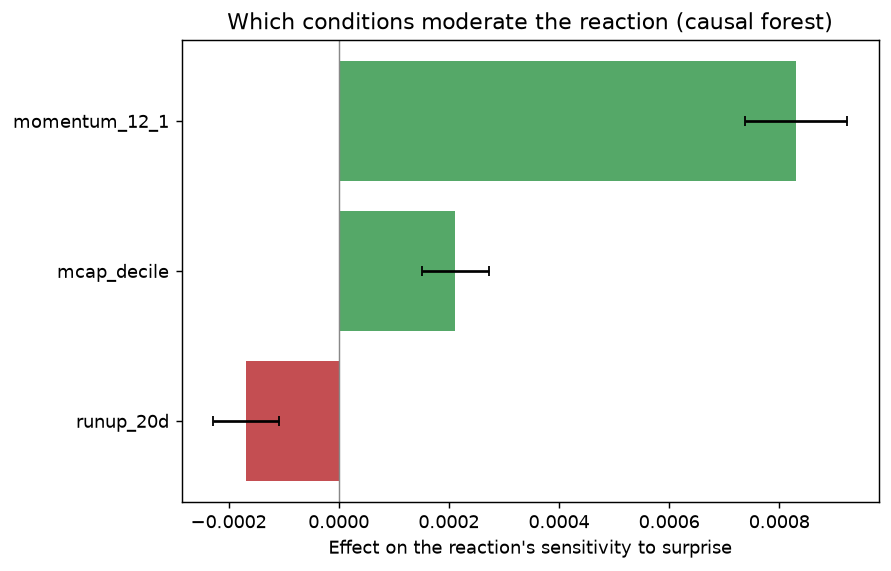
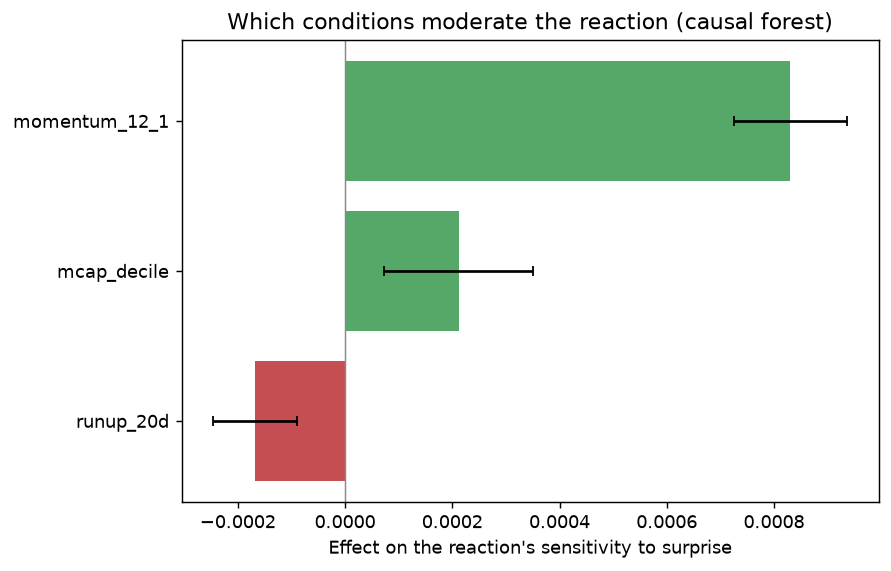
Update results: ML-vs-baseline comparison, cluster-robust moderators, corrected prediction narrative

diff --git a/README.md b/README.md
@@ -1,188 +1,166 @@
-# Earnings Reaction Lab
+# Market Intelligence Bot
 
-**Why do identical earnings beats produce opposite price reactions?** When Meta beats EPS
-estimates by ~5% the stock can fall 7%, while Shopify beats by a similar margin the same
-season and rises 5%. The size of the surprise clearly is not the whole story. This project
-measures *which conditions* change how the market reacts to an earnings surprise, using
-~10 years of S&P 500 earnings events, and treats the question as two distinct problems:
+A self-hosted Telegram bot that delivers a scheduled cross-asset **market digest** and **instant, analysed alerts** for the tickers you track. It runs as a single-tenant, owner-locked instance: you supply the keys, and it serves you (plus an optional allowlist) only.
 
-- **Inference** — *what causes* the difference in reactions (the honest-standard-errors track).
-- **Prediction** — *can we forecast* the reaction out of sample (the honest-OOS track).
+> Everything it produces is information and analysis, **not personalised investment advice.**
 
-The repository is built so that each method appears only where its assumptions earn their
-keep, and the inference/prediction distinction is kept explicit throughout. The methodology
-is the deliverable as much as any single number.
+## Demo
 
-> **Status:** analytical pipeline implemented and unit-tested (51 tests, simulation
-> ground-truths for every estimator) and run end-to-end on live data. The **Results**
-> section below reports a pilot run on a curated 84-name S&P 500 subset over ~5 years
-> (~1,845 earnings events, current-membership snapshot — see caveats).
+Per-ticker news alerts, each carrying an LLM analysis bar — **sentiment**, **impact**, **why it matters**, and **what to watch**. The same pipeline handles the full sentiment range:
 
-## Results (pilot run)
+| 🟢 Bullish | ⚪ Neutral | 🔴 Bearish |
+|---|---|---|
+| ![Bullish alert](docs/alert_bullish.png) | ![Neutral alert](docs/alert_neutral.png) | ![Bearish alert](docs/alert_bearish.png) |
 
-Pilot scope: 84 diversified S&P 500 names, ~5 years, **1,845 earnings events**. Reactions
-are market-adjusted cumulative abnormal returns over the announcement window (days 0–1).
-This is a current-membership snapshot, so survivorship bias applies (see *Data*); treat it
-as a strong pilot, not the final study.
+*Real output for tracked tickers. Each article is fetched, deduplicated per user, classified, and pushed once with a structured read — not just a headline.*
 
-### The puzzle, visualized
+## What it does
 
-Surprise size alone does not determine the reaction — the cloud is wide and roughly
-centered, exactly the dispersion the project sets out to explain.
+- **4-hour digest** (configurable times): one brief covering US/UK/global indices, major FX, BTC/ETH, WTI & gold, US 10Y, VIX and DXY — with moves vs prior close and vs the last digest, outlier flags, upcoming earnings for your tracked names, and an LLM synthesis (what changed, why it matters, what to watch). Computed once and broadcast.
+- **Whitelist news alerts**: polls news for the union of tracked tickers, and for each fresh article pushes a tight analysis (summary, sentiment, impact direction/magnitude, materiality, why-it-matters, what-to-watch) to every user holding that ticker — once each, with strict per-user dedup.
+- **Price alerts**: `>`/`<` level crossings and daily `%` moves, one-shot or repeating.
 
-![Reaction vs surprise](reports/02_surprise_vs_reaction.png)
+## How it works
 
-### Reaction scales with surprise, but mainly at the tails
+- **Compute-once → broadcast** for the digest; **poll-union → fan-out** for alerts.
+- **Owner-lock:** every handler is gated; non-authorised users never reach the data providers or the LLM, so strangers can't run up your API bill.
+- **Data:** Yahoo Finance via `yfinance` for all prices and news (no key). Anthropic (Claude) is the only paid dependency. An optional Finnhub key adds a US-news fallback.
+- **Storage:** SQLite, keyed by Telegram user ID, structured so a move to PostgreSQL is a connection change rather than a rewrite.
 
-Sorting events into surprise (SUE) quintiles, the largest-beat quintile is significantly
-positive (~+0.95%, CI clear of zero) and the largest-miss quintile is negative; the middle
-is noisy. The relationship is real but concentrated in the extremes.
+## Requirements
 
-![Reaction by surprise quintile](reports/01_car_by_sue_quintile.png)
+- Python 3.10+
+- A Telegram bot token
+- An Anthropic API key
+- (Optional) a Finnhub API key for a news fallback
 
-### Post-earnings drift is strongly asymmetric
+## Quick start
 
-Beats settle around +0.5% and hold it; misses fall to roughly −2.5% and only partially
-recover, sitting near −1.5% three weeks later. **Misses are punished several times harder
-than beats are rewarded, and the drift persists** — a clean post-earnings-announcement-drift
-result.
-
-![Drift around earnings](reports/04_drift_beats_vs_misses.png)
-
-### Which conditions move the reaction (the core finding)
-
-A causal forest (CausalForestDML, cluster-aware cross-fitting) estimates how the reaction's
-*sensitivity to surprise* varies with prior conditions. Three moderators are significant:
-
-- **Pre-earnings run-up (20-day) — negative.** Stocks that already rallied into the print
-  react *less* favorably to the same beat: the move was priced in. This is the statistical
-  articulation of *why a company can beat and still fall* (the "Meta" case).
-- **12-month momentum — positive (largest).** Longer-horizon winners react more strongly.
-- **Market-cap decile — positive.** Larger caps reprice more per unit of surprise.
-
-Short-term run-up dampens the reaction while long-term momentum amplifies it — two horizons
-pulling in opposite directions.
-
-![Causal-forest moderators](reports/07_forest_moderators.png)
-
-### You can explain the reaction, but not predict its magnitude
-
-A gradient-boosted model under purged, embargoed walk-forward CV shows essentially no
-out-of-sample skill at predicting reaction *magnitude*: predictions collapse toward zero
-while actuals span ±15%, and SHAP attributes nearly all signal to the surprise itself.
-
-![Out-of-sample predicted vs actual](reports/05_oos_predicted_vs_actual.png)
-
-This is an honest null, and the central methodological point: the cross-sectional reaction
-is **explainable in its structure (inference) but not point-predictable (prediction)** —
-consistent with market efficiency, and a more credible result than an overfit "winning"
-model.
-
-### Caveats
-
-Curated 84-name universe over ~5 years on a current-membership snapshot (survivorship bias
-present), annual-only fundamentals on the data tier used (so the valuation moderator is
-under-powered), and no transcript-text features yet. Effect magnitudes are modest and
-should be read as directional pilot evidence; the full point-in-time, deeper-history run is
-the natural next step.
-
-## The approach in one picture
-
-| Question | Method | Notebook | Why this tool |
-|---|---|---|---|
-| Is the data right; what's the average reaction? | Event study + cluster-robust OLS | 01 | Establishes the stylized fact and catches upstream bugs before trusting any estimator. |
-| Effect of surprise size with many controls? | Post-double-selection lasso (BCH) | 02 | Valid inference on a focal coefficient under high-dimensional controls; plug-in penalty, two-way clustered SEs. |
-| Which conditions *moderate* the reaction (pre-specified)? | Interacted double lasso + Benjamini-Hochberg | 02 | Interpretable, communicable moderators with multiplicity control. |
-| Which moderators, *without* pre-specifying? | Causal forest (CausalForestDML) + calibration | 03 | Nonparametric heterogeneity discovery, validated by a sort/calibration test so we don't report noise. |
-| Can we predict the reaction OOS? | LightGBM + SHAP, purged/embargoed CV | 04 | Trees regularize internally; honest out-of-time evaluation; rank IC is the finance-native metric. |
-| Does deep learning or text help? | FT-Transformer benchmark + FinBERT embeddings | 05 | Fair tabular benchmark on the same CV; transcripts capture guidance/tone that tabular features cannot. |
-
-## Why these methods, in plain terms
-
-- **Double lasso, not kitchen-sink OLS.** With dozens of correlated controls, ordinary
-  regression overfits and stepwise selection invalidates the p-values. Double selection
-  (Belloni-Chernozhukov-Hansen) chooses controls from both the outcome and the
-  treatment equations, keeping inference on the surprise coefficient valid. The penalty is
-  the theory-driven **plug-in** value, not cross-validated lambda, which would over-select.
-- **Two-way clustered standard errors (firm x quarter).** Earnings events are not
-  independent: a firm's quarters are correlated, and all firms reporting the same week
-  share macro shocks. SEs are clustered in both dimensions (Cameron-Gelbach-Miller),
-  with the covariance projected to the nearest valid (PSD) matrix.
-- **Causal forest *is* double ML.** It residualizes outcome and treatment with ML nuisance
-  models before splitting, so cross-fitting must respect clustering — we use GroupKFold by
-  ticker. We never trust the forest until it passes a **calibration sort test**: bucket events
-  by predicted effect, re-estimate the realized effect per bucket, and check the two agree.
-  With ~20k events a forest will manufacture noise heterogeneity otherwise.
-- **Purged, embargoed walk-forward CV.** The drift label spans roughly a month, so a naive
-  k-fold lets training data overlap the test label horizon — a silent leak. Training events
-  within the purge window before each test block are dropped, and an embargo follows it.
-- **Standardized surprise (SUE), not raw %.** Raw surprise-percent explodes for near-zero
-  EPS denominators; SUE scales by each firm's own past surprise volatility (using only
-  prior quarters), which is both better-behaved and the literature standard.
-
-## Repository layout
-
-```
-src/erl/
-  config.py            typed settings (ERL_ env prefix), data dirs, benchmarks
-  fmp.py               rate-limit-aware, cached, resumable FMP client
-  universe.py          point-in-time S&P 500 membership (survivorship handled)
-  harvest/             surprises, prices, fundamentals, transcripts
-  events/              returns/CARs, feature engineering, panel + leakage guards
-  inference/           event study, double lasso, causal forest
-  predict/             purged CV, LightGBM+SHAP, FT-Transformer
-  text/                transcript embedding + leakage-safe PCA features
-  pipeline.py          end-to-end orchestrator (harvest -> panel -> inference -> predict)
-notebooks/             01..06, jupytext percent-format (open in Jupyter or VS Code)
-tests/                 47 tests; estimators verified against simulated ground truth
-```
-
-## Data
-
-Primary source: **Financial Modeling Prep (FMP)**, with `yfinance` as a free price
-cross-check. The pipeline adapts the universe to your plan: it first attempts
-**point-in-time** S&P 500 membership via FMP's historical-constituents endpoint (the
-proper survivorship fix, including names that later left the index); if that endpoint
-is not in your plan, it falls back to the **current** constituents, and failing that to
-a curated diversified subset. The current-membership and subset paths carry
-**survivorship bias** (they only include today's members), which is logged at run time
-and should be stated in any write-up based on them. Point-in-time membership requires a
-plan that includes historical constituents (e.g. Premium).
-
-The project is designed around a **phased data budget**:
-
-1. **FMP Starter/Premium** covers earnings surprises, historical constituents, deep prices,
-   and analyst estimates — everything for notebooks 01-04.
-2. **One month of FMP Ultimate** to bulk-harvest ~10 years of earnings-call transcripts for
-   notebook 05; they cache locally as parquet, after which you can downgrade. The RTX 4090
-   then embeds from the local cache indefinitely.
-
-Russell 1000 is a deferred stretch goal: FMP does not provide Russell membership, so it
-needs a separate point-in-time source before inclusion.
-
-## Reproducing the results
-
-```
+```bash
+git clone <your-fork-url> market-intel-bot
+cd market-intel-bot
 python -m venv .venv && source .venv/bin/activate
 pip install -r requirements.txt
-cp .env.example .env          # then add your ERL_FMP_API_KEY
-python -m erl.pipeline all --universe pilot     # 30-ticker pilot, fast
-python -m erl.pipeline all --universe sp500     # full point-in-time universe
+cp .env.example .env
+# edit .env: TELEGRAM_BOT_TOKEN, OWNER_TELEGRAM_ID, ANTHROPIC_API_KEY
+python -m app.main
 ```
 
-GPU track (run on a CUDA machine): `pip install -r requirements-gpu.txt`, then
-`notebooks/05_dl_and_text`.
+Then message your bot `/start`.
 
-## Honest expectations
+## Getting the keys and IDs
 
-This is a study of a noisy phenomenon. The realistic out-of-sample R-squared on individual
-reactions is low single digits, with a rank IC around 0.05-0.10 — and that is a finding,
-not a failure. Much of the Meta-vs-Shopify divergence is idiosyncratic (specific guidance
-wording, one weak segment) that tabular features cannot capture, which is exactly why the
-transcript-embedding track exists. The contribution is a rigorous map of *which observable
-conditions* systematically move the reaction, with inference that survives clustering and
-multiple-testing scrutiny.
+- **Telegram bot token:** open [@BotFather](https://t.me/BotFather), `/newbot`, copy the token. To accept Star donations, also run `/mybots → your bot → Payments` once.
+- **Your Telegram user ID:** message [@userinfobot](https://t.me/userinfobot); it replies with your numeric ID. Put it in `OWNER_TELEGRAM_ID`.
+- **Anthropic API key:** create one at <https://console.anthropic.com>.
+- **Finnhub (optional):** free key at <https://finnhub.io>.
+
+## Configuration
+
+| Variable | Required | Default | Notes |
+|---|---|---|---|
+| `TELEGRAM_BOT_TOKEN` | yes | — | From BotFather |
+| `OWNER_TELEGRAM_ID` | yes | — | The only user served by default |
+| `ANTHROPIC_API_KEY` | yes | — | The only guaranteed cost |
+| `ALLOWED_USER_IDS` | no | empty | Comma-separated extra IDs allowed on this instance |
+| `DIGEST_MODEL` | no | `claude-sonnet-4-6` | Digest synthesis |
+| `CLASSIFY_MODEL` | no | `claude-haiku-4-5-20251001` | Per-article classification |
+| `TIMEZONE` | no | `Europe/London` | IANA zone |
+| `DIGEST_TIMES` | no | `06:00,10:00,14:00,18:00,22:00` | Local broadcast times |
+| `MARKET_OPEN_HOUR` / `MARKET_CLOSE_HOUR` | no | `8` / `21` | Local hours defining the fast-poll window |
+| `POLL_INTERVAL_MARKET_SECONDS` | no | `300` | Poll interval in-window |
+| `POLL_INTERVAL_OFFHOURS_SECONDS` | no | `1200` | Effective interval off-hours (equities); crypto stays live |
+| `NEWS_LOOKBACK_HOURS` | no | `24` | Bounds the news fetch window |
+| `FINNHUB_API_KEY` | no | empty | Enables the US-news fallback |
+| `FMP_API_KEY` | no | empty | Reserved for a future macro calendar; unused |
+| `DONATE_URL` / `DONATE_TEXT` | no | — | External donation link shown by `/donate` |
+| `DONATE_STARS_AMOUNTS` | no | `50,100,250` | Telegram Stars amounts offered |
+| `ALERT_LLM_COMMENTARY` | no | `false` | Reserved toggle for per-trigger LLM notes |
+| `MAX_TRACKED_SYMBOLS` | no | `100` | Per-user watchlist cap |
+| `DATABASE_PATH` | no | `data/bot.db` | SQLite path |
+| `LOG_LEVEL` | no | `INFO` | Structured JSON logs |
+| `HTTP_TIMEOUT_SECONDS` / `HTTP_MAX_RETRIES` | no | `15` / `3` | Network behaviour |
+
+## Commands
+
+```
+/add <TICKER>          track a symbol (AAPL, VOD.L, BTC-USD)
+/remove <TICKER>       stop tracking
+/list                  show your watchlist
+/digest                send the latest digest now
+/alert <T> > <PRICE>   alert above a level (use < for below)
+/alert <T> +5%         alert on a daily move (-5% for down); add 'repeat' to re-arm
+/alerts                list active alerts
+/alert_remove <ID>     delete an alert
+/donate                support development
+/help                  show help
+```
+
+## Running with Docker
+
+```bash
+docker build -t market-intel-bot .
+docker run -d --name market-intel-bot \
+  --env-file .env \
+  -v "$(pwd)/data:/app/data" \
+  market-intel-bot
+```
+
+The volume persists the SQLite database across restarts.
+
+## Deployment
+
+**VPS (systemd):**
+
+```ini
+[Unit]
+Description=Market Intelligence Bot
+After=network-online.target
+Wants=network-online.target
+
+[Service]
+WorkingDirectory=/opt/market-intel-bot
+EnvironmentFile=/opt/market-intel-bot/.env
+ExecStart=/opt/market-intel-bot/.venv/bin/python -m app.main
+Restart=on-failure
+RestartSec=5
+User=botuser
+
+[Install]
+WantedBy=multi-user.target
+```
+
+**Railway / Fly.io / Render:** deploy the Dockerfile, set the environment variables in the platform dashboard, and attach a persistent volume mounted at `/app/data`. The bot uses long polling, so no inbound port or public URL is required.
+
+## Data and privacy
+
+- Single-tenant by design. The bot only responds to `OWNER_TELEGRAM_ID` and any `ALLOWED_USER_IDS`; everyone else gets a "private instance" reply and is never passed to the providers or the LLM.
+- All state lives in your local SQLite file: registered users, per-user watchlists, per-user sent-article hashes (for dedup), price alerts, and the latest market snapshot. No analytics, no third-party storage.
+- Keys live only in your `.env`. Never commit it.
+
+## Donations
+
+`/donate` shows your `DONATE_URL` (if set) and Telegram Stars buttons. Stars use Telegram's native in-app payment (`currency=XTR`, no payment provider needed); note that Apple/Google take a cut when users buy Stars on mobile, so desktop tips net more. Forks can point `DONATE_URL` at their own page.
+
+## Limitations and data sources
+
+- **Yahoo via `yfinance` is unofficial and best-effort.** Quotes are delayed (~15 min) and the endpoints can change without notice. The bot caches, retries, and degrades per-section rather than crashing — but it is not a real-time tape, and price alerts are delayed-price alerts.
+- **UK 10Y gilt yield** is not available from Yahoo (only gilt price indices are), so it shows as unavailable in the digest until you wire a dedicated source.
+- **No macro economic calendar.** The digest surfaces upcoming **earnings** for your tracked names from Yahoo instead. `FMP_API_KEY` is reserved for adding a true macro calendar later.
+- **News latency/coverage:** Yahoo news is good for US large caps, patchier for UK/small caps and not as fresh as a dedicated feed. Set `FINNHUB_API_KEY` to add a US fallback.
+- **Cost scales with your watchlist.** The news poll and per-article classification grow with the number of tracked tickers; keep `MAX_TRACKED_SYMBOLS` sensible.
+
+## Development
+
+Run the test suite (real SQLite, fake providers/bot — no keys or network needed for the logic tests):
+
+```bash
+pip install -r requirements-dev.txt
+pytest -q
+```
+
+The suite covers config parsing/validation, storage and all repositories, the formatters, the analysis layer (JSON parsing + classification coercion), and the job logic (digest broadcast, news fan-out with dedup, and the price-alert lifecycle). A GitHub Actions workflow (`.github/workflows/ci.yml`) runs it on every push and pull request across Python 3.10–3.12.
 
 ## License
 
-MIT — see `LICENSE`.
+MIT — see [LICENSE](LICENSE).